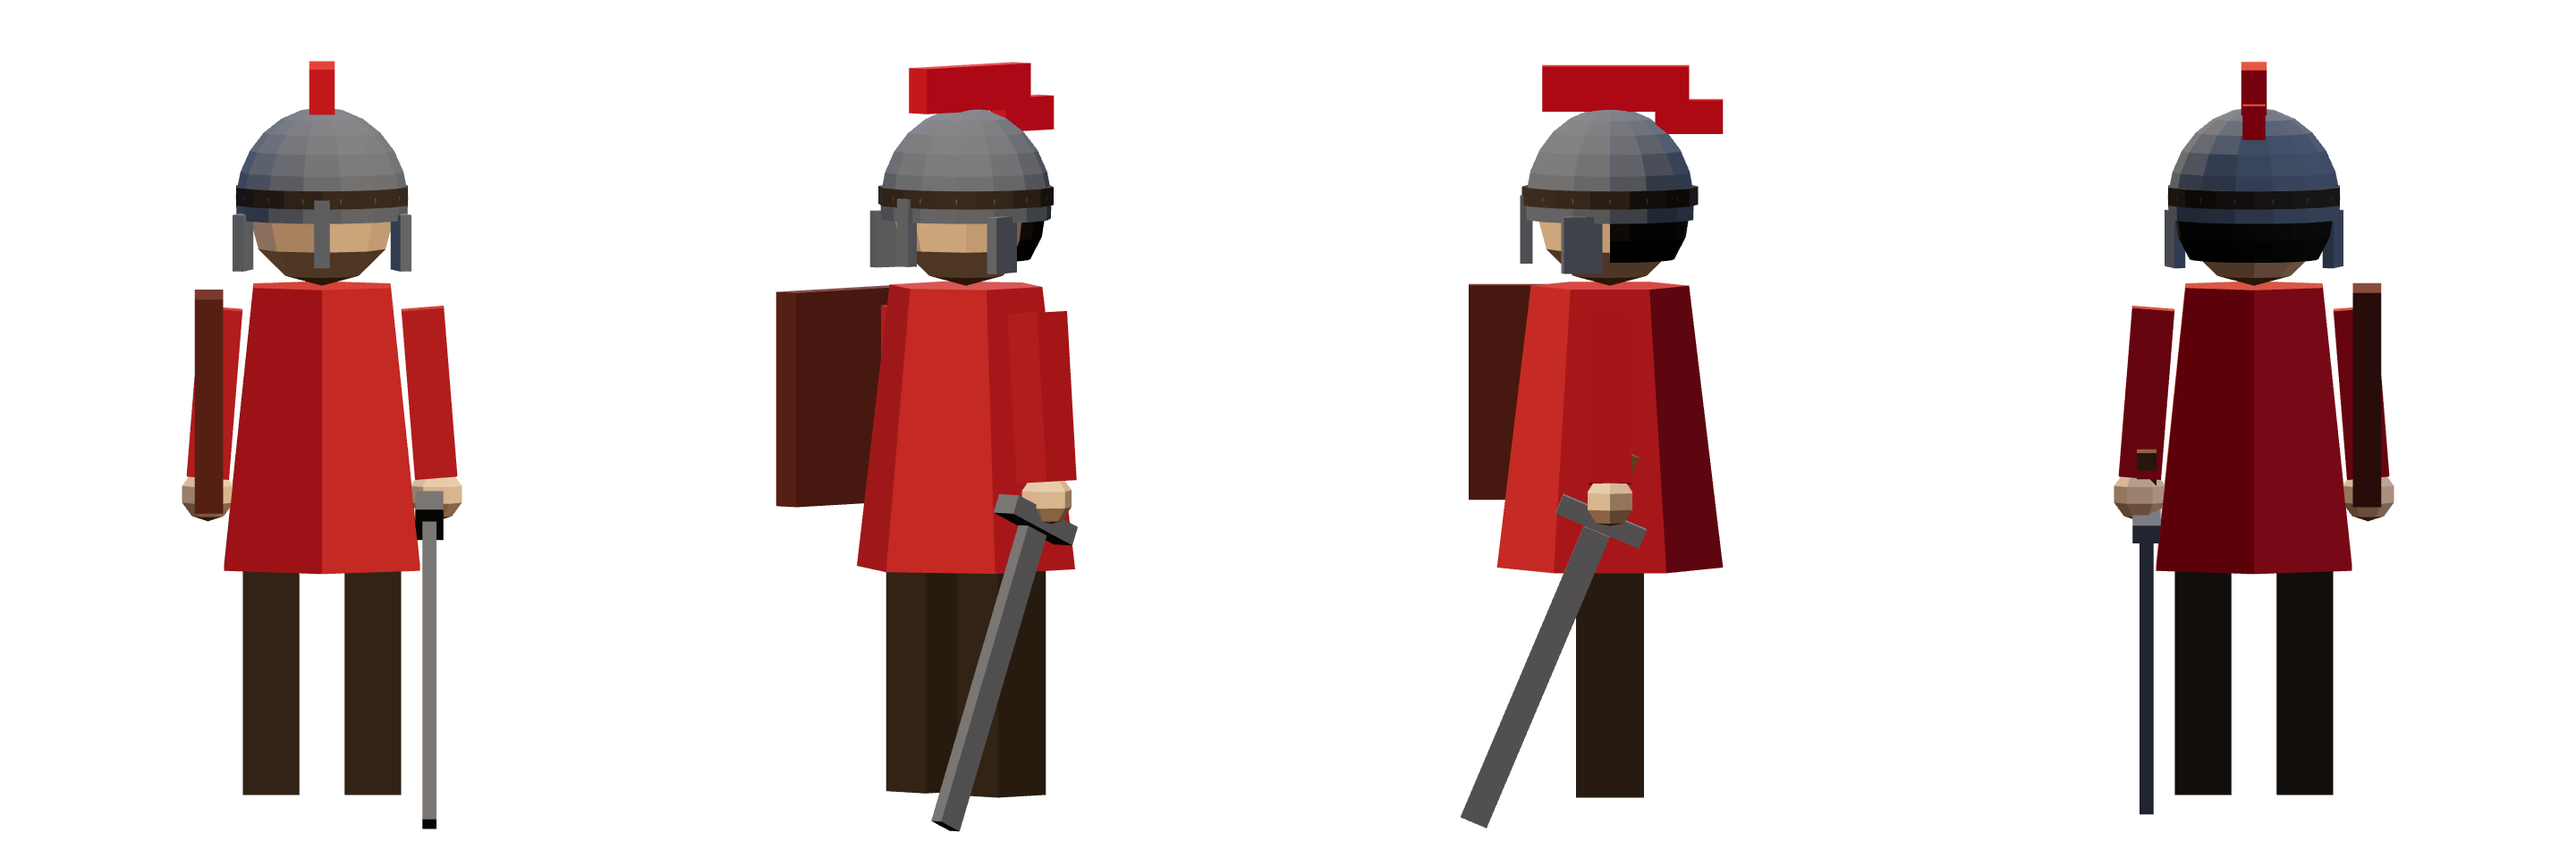
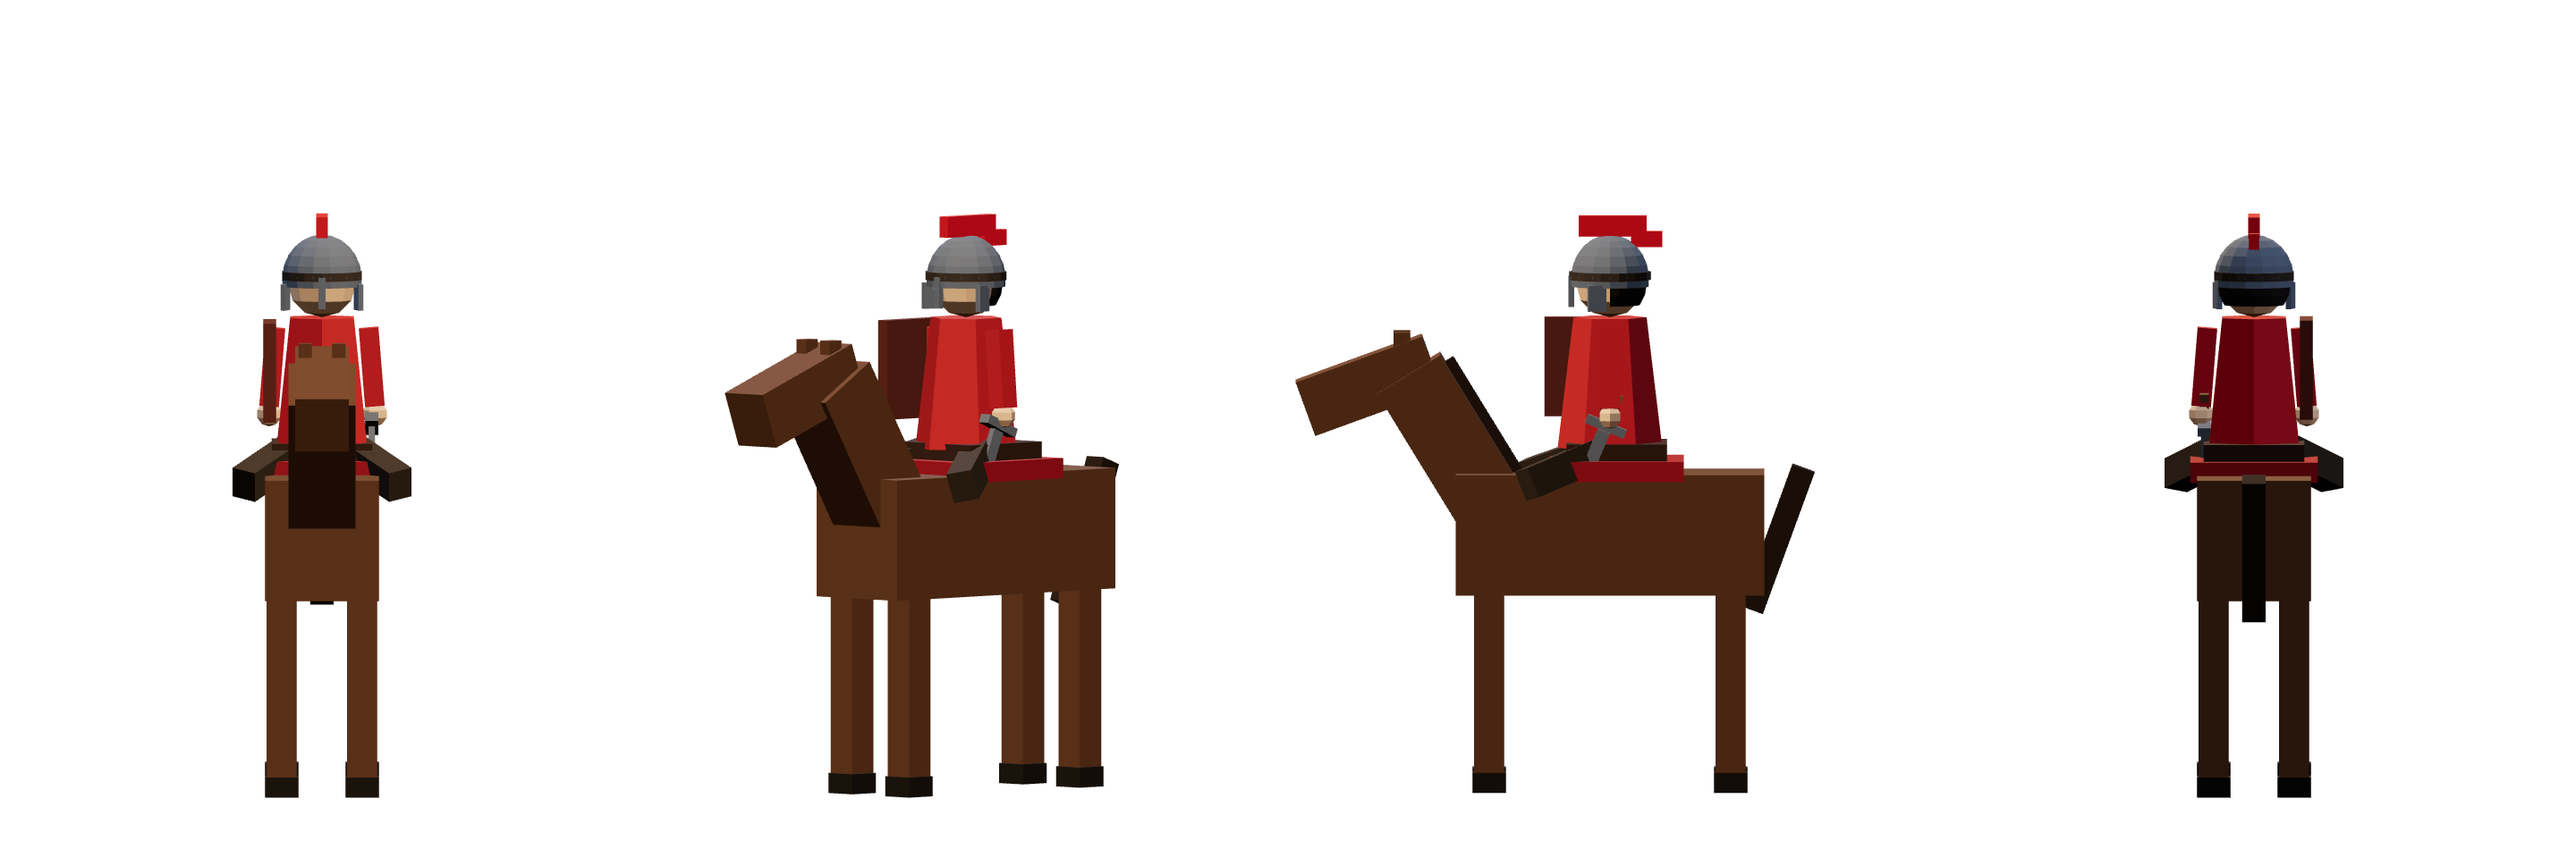
Five waves, raider spearmen, mounted captain
- Two more waves (5 in all) with spearmen from wave 2 and harder stats;
  day/night counter, win check and summary follow the wave count
- Spearman: long iron-tipped spear carried upright, levelled to thrust,
  reach 1.1
- The giant captain is replaced by a normal-size captain on horseback with a
  sword; the horse's legs walk in diagonal pairs
- Character sheet re-rendered with the spearman and mounted captain

diff --git a/index.html b/index.html
@@ -216,7 +216,7 @@ button.danger{border-color:#6b3a33;color:var(--bad)}
   <div class="panel">
     <div class="phase">
       <span class="phIco" id="phIco"></span>
-      <div class="phMain"><div id="phaseText">Day 1 of 3</div><div id="phaseSub">Night in 5:00</div></div>
+      <div class="phMain"><div id="phaseText">Day 1 of 5</div><div id="phaseSub">Night in 5:00</div></div>
       <div class="tick" id="tick" title="Next payout from buildings">
         <svg viewBox="0 0 36 36"><circle cx="18" cy="18" r="15" class="tickBg"/><circle cx="18" cy="18" r="15" class="tickFg" id="tickRing"/></svg>
         <span id="tickN">20</span>
@@ -361,15 +361,19 @@ const PATH_COST = { gold: 1 }, PATH_CHARM = .02, CHARM_R = 8, WALK = { farm: 1, 
 const CATS = { eco: ['house', 'farm', 'lodge', 'quarry'], def: ['tower', 'wall', 'gate'], decor: ['road', 'well', 'torch', 'flowers', 'statue'] };
 const WALLY = { wall: 1, gate: 1, tower: 1, castle: 1 };
 const WAVES = [
-  { sword: 6, archer: 2, hp: 1, dmg: 1 },
-  { sword: 10, archer: 5, hp: 1.2, dmg: 1.15 },
-  { sword: 14, archer: 8, hp: 1.4, dmg: 1.3, captain: 1 },
+  { sword: 6, archer: 2, spear: 0, hp: 1, dmg: 1 },
+  { sword: 8, archer: 4, spear: 3, hp: 1.15, dmg: 1.1 },
+  { sword: 10, archer: 6, spear: 5, hp: 1.3, dmg: 1.2, captain: 1 },
+  { sword: 12, archer: 8, spear: 8, hp: 1.45, dmg: 1.35, captain: 1 },
+  { sword: 16, archer: 10, spear: 10, hp: 1.6, dmg: 1.5, captain: 2 },
 ];
-const DAYLEN = [300, 120, 120];
+const NIGHTS = WAVES.length;
+const DAYLEN = [300, 120, 120, 120, 120];
 const ENEMY = {
   sword:   { hp: 50, speed: 1.5, range: .6, dmg: 6, rate: 1.0 },
   archer:  { hp: 32, speed: 1.3, range: 4.5, dmg: 6, rate: 1.8 },
-  captain: { hp: 260, speed: 1.2, range: .7, dmg: 16, rate: 1.1, big: 1.35 },
+  spear:   { hp: 60, speed: 1.4, range: 1.1, dmg: 8, rate: 1.3 },               // longer reach than a sword
+  captain: { hp: 260, speed: 2.0, range: 1.0, dmg: 16, rate: 1.1, mounted: true },   // rides a horse, swings a sword
 };
 
 // ---------- noise ----------
@@ -1720,6 +1724,11 @@ function makeTool(kind) {
     p.add(box(.008, .008, tipZ * 2, M.canvas, 0, tipY, 0));
     return p;
   }
+  if (kind === 'spear') {               // long ash shaft with an iron head at the -y end (forward when the arm is raised)
+    p.add(box(.03, 1.5, .03, M.timber, 0, -.25, 0));
+    const tip = cone(.04, .18, 4, M.iron, 0, -1.08, 0); tip.rotation.x = Math.PI; p.add(tip);
+    return p;
+  }
   if (kind === 'sword') { p.add(box(.035, .12, .035, M.timber, 0, .03, 0)); p.add(box(.05, .035, .16, M.iron, 0, -.04, 0)); p.add(box(.025, .56, .05, M.iron, 0, -.34, 0)); p.rotation.x = -.4; return p; }
   p.add(box(.035, .64, .035, M.timber, 0, -.22, 0));
   if (kind === 'axe') p.add(box(.03, .16, .2, M.iron, 0, -.48, -.1));     // blade on the side that leads the swing
@@ -2138,12 +2147,34 @@ function updateTrees(now) {
 }
 
 // ---------- enemies + combat ----------
-const raiderRed = mat('#a32a22'), enemyTunic = { sword: raiderRed, archer: raiderRed, captain: raiderRed };   // every raider wears the same red
+const raiderRed = mat('#a32a22'), enemyTunic = { sword: raiderRed, archer: raiderRed, spear: raiderRed, captain: raiderRed };   // every raider wears the same red
 const shieldM = mat('#5a2a1e');
+// the raider captain rides: a horse under the rider, who sits astride with legs to either side
+const horseM = mat('#5a3a22'), maneM = mat('#2a1d14'), saddleM = mat('#3a2418'), blanketM = mat('#8a221c'), hoofM = mat('#1f1a16');
+const SADDLE = .72;   // lifts the rider's body so the hips sit on the saddle
+function mountHorse(p) {
+  const h = new THREE.Group(); p.g.add(h);
+  h.add(box(.34, .36, .92, horseM, 0, .78, 0));                                   // barrel
+  const neck = box(.2, .46, .22, horseM, 0, 1.06, .48); neck.rotation.x = .55; h.add(neck);
+  const head = box(.16, .17, .4, horseM, 0, 1.22, .72); head.rotation.x = .35; h.add(head);
+  const mane = box(.05, .42, .1, maneM, 0, 1.1, .4); mane.rotation.x = .55; h.add(mane);
+  for (const sx of [-1, 1]) h.add(box(.04, .08, .05, horseM, sx * .05, 1.34, .62));  // ears
+  const tail = box(.07, .45, .07, maneM, 0, .76, -.5); tail.rotation.x = -.35; h.add(tail);
+  h.add(box(.38, .06, .4, blanketM, 0, .97, -.02)); h.add(box(.3, .08, .3, saddleM, 0, 1.01, -.02));
+  p.horseLegs = [[-1, 1], [1, 1], [-1, -1], [1, -1]].map(([sx, sz]) => {
+    const pv = new THREE.Group(); pv.position.set(sx * .12, .62, sz * .36); h.add(pv);
+    const l = box(.09, .58, .09, horseM, 0, -.29, 0); pv.add(l); pv.add(box(.1, .06, .1, hoofM, 0, -.58, 0));
+    return pv;
+  });
+  p.body.position.y = SADDLE;
+  for (const [n, sx] of [[0, -1], [1, 1]]) { p.legs[n].rotation.x = -1.2; p.legs[n].rotation.z = sx * .55; }
+  p.horse = h;
+}
 function spawnEnemy(kind, sp, wave) {
   const E = ENEMY[kind], w = WAVES[wave - 1];
-  const p = makePerson({ tunic: enemyTunic[kind], helm: kind === 'archer' ? 'hood' : kind === 'captain' ? 'captain' : 'raider', tool: kind === 'archer' ? 'bow' : 'sword', scale: E.big || 1 });
+  const p = makePerson({ tunic: enemyTunic[kind], helm: kind === 'archer' ? 'hood' : kind === 'captain' ? 'captain' : 'raider', tool: kind === 'archer' ? 'bow' : kind === 'spear' ? 'spear' : 'sword' });
   if (kind !== 'archer') p.body.add(box(.05, .38, .3, shieldM, -.2, .7, .1));
+  if (E.mounted) mountHorse(p);
   const e = Object.assign(p, { kind, x: clamp(sp.x + (Math.random() - .5) * 2, 1, SIZE - 1), z: clamp(sp.z + (Math.random() - .5) * 2, 1, SIZE - 1),
     hp: E.hp * w.hp, max: E.hp * w.hp, speed: E.speed * (.9 + Math.random() * .2), range: E.range, dmg: E.dmg * w.dmg, rate: E.rate,
     cool: Math.random(), target: null, retarget: 0, dead: false, deadT: 0, bar: makeBar(kind === 'captain' ? 1.2 : .8) });
@@ -2216,12 +2247,14 @@ function updateEnemies(dt) {
     e.attackT = Math.max(0, (e.attackT || 0) - dt);
     e.phase += dt * (e.walking ? 9 : 0);
     const sw = e.walking ? Math.sin(e.phase) * .6 : 0;
-    e.legs[0].rotation.x = sw; e.legs[1].rotation.x = -sw;
+    if (e.horse) e.horseLegs.forEach((l, i) => { l.rotation.x = (i === 0 || i === 3 ? 1 : -1) * sw * .8; });   // diagonal pairs move together
+    else { e.legs[0].rotation.x = sw; e.legs[1].rotation.x = -sw; }
     if (e.kind === 'archer') { e.arms[0].rotation.x = e.attackT > 0 ? -1.5 : -.35 - sw * .3; e.arms[1].rotation.x = e.attackT > 0 ? -1.35 : -sw * .6; }
+    else if (e.kind === 'spear') { e.arms[0].rotation.x = -.55 - sw * .2; e.arms[1].rotation.x = e.attackT > 0 ? -1.55 : -.5 + sw * .2; e.pivot.rotation.x = e.attackT > 0 ? 0 : -2.6; }   // carried upright, levelled to thrust
     else { e.arms[0].rotation.x = -.55 - sw * .2; e.arms[1].rotation.x = e.attackT > 0 ? -.6 - e.attackT * 5.7 : -.45 + sw * .3; }
     const y = hAt(e.x, e.z);
     e.g.position.set(e.x, y < 0 ? y * .4 - .2 : y, e.z);
-    e.bar.grp.visible = e.hp < e.max; e.bar.set(e.hp / e.max); e.bar.grp.position.set(e.x, e.g.position.y + 1.6 * UNIT_K * (ENEMY[e.kind].big || 1), e.z);
+    e.bar.grp.visible = e.hp < e.max; e.bar.set(e.hp / e.max); e.bar.grp.position.set(e.x, e.g.position.y + 1.6 * UNIT_K + (e.horse ? SADDLE : 0), e.z);
   }
 }
 // ---------- night watch: villagers walk to the castle and towers and shoot from the top ----------
@@ -2346,8 +2379,8 @@ function startNight() {
   PH.kind = 'night'; spawnQueue = [];
   const pts = [edgePoint(), edgePoint()];
   for (let n = 0; n < w.sword; n++) spawnQueue.push(['sword', pts[n % 2]]);
-  for (let n = 0; n < w.archer; n++) spawnQueue.splice(Math.floor(Math.random() * (spawnQueue.length + 1)), 0, ['archer', pts[n % 2]]);
-  if (w.captain) spawnQueue.push(['captain', pts[0]]);
+  for (const k of ['archer', 'spear']) for (let n = 0; n < (w[k] || 0); n++) spawnQueue.splice(Math.floor(Math.random() * (spawnQueue.length + 1)), 0, [k, pts[n % 2]]);
+  for (let n = 0; n < (w.captain || 0); n++) spawnQueue.push(['captain', pts[n % 2]]);
   spawnT = 1;
   const ps = assignPosts();
   banner(`Night ${PH.wave}`, `${spawnQueue.length} raiders`, true); setMusic('night');
@@ -2366,8 +2399,8 @@ function endGame(won) {
   const el = (performance.now() - stats.t0) / 1000;
   $('#sumTitle').textContent = won ? 'The town holds' : 'The castle has fallen';
   $('#sumTitle').className = won ? '' : 'lost';
-  $('#sumText').textContent = won ? 'All three waves held.' : `Fell on night ${PH.wave}.`;
-  const rows = [['Waves defended', `${won ? 3 : PH.wave - 1} of 3`], ['Raiders slain', stats.slain], ['Buildings built', stats.built], ['Upgrades', stats.upgrades],
+  $('#sumText').textContent = won ? `All ${NIGHTS} waves held.` : `Fell on night ${PH.wave}.`;
+  const rows = [['Waves defended', `${won ? NIGHTS : PH.wave - 1} of ${NIGHTS}`], ['Raiders slain', stats.slain], ['Buildings built', stats.built], ['Upgrades', stats.upgrades],
     ['Buildings lost', stats.lost], ['Buildings standing', buildings.length], ['Gold earned', stats.gold], ['Wood gathered', stats.wood],
     ['Stone quarried', stats.stone], ['Food harvested', stats.food], ['Time played', fmt(el)]];
   $('#sumStats').innerHTML = rows.map(([a, b]) => `<dt>${a}</dt><dd>${b}</dd>`).join('');
@@ -2378,7 +2411,7 @@ function updatePhase(dt) {
   if (PH.kind === 'day') { PH.t -= dt; if (PH.t <= 0) startNight(); }
   else {
     if (spawnQueue.length && (spawnT -= dt) <= 0) { const [k, p] = spawnQueue.shift(); spawnEnemy(k, p, PH.wave); spawnT = 1.1; }
-    if (!spawnQueue.length && !enemies.some(e => !e.dead)) { if (PH.wave >= 3) endGame(true); else startDay(); }
+    if (!spawnQueue.length && !enemies.some(e => !e.dead)) { if (PH.wave >= NIGHTS) endGame(true); else startDay(); }
   }
   if ((econT -= dt) <= 0) { econT = TICK; econTick(); }
 }
@@ -2440,8 +2473,8 @@ const PH_ICON = {
 let phIcoKind = '';
 function updateHud() {
   const pt = $('#phaseText'), sub = $('#phaseSub');
-  if (PH.kind === 'day') { pt.textContent = `Day ${PH.wave} of 3`; pt.className = ''; sub.textContent = `Night in ${fmt(Math.max(0, PH.t))}`; $('#nightBtn').hidden = gameOver; }
-  else { const left = spawnQueue.length + enemies.filter(e => !e.dead).length; pt.textContent = `Night ${PH.wave} of 3`; pt.className = 'night'; sub.textContent = `${left} raider${left === 1 ? '' : 's'} left`; $('#nightBtn').hidden = true; }
+  if (PH.kind === 'day') { pt.textContent = `Day ${PH.wave} of ${NIGHTS}`; pt.className = ''; sub.textContent = `Night in ${fmt(Math.max(0, PH.t))}`; $('#nightBtn').hidden = gameOver; }
+  else { const left = spawnQueue.length + enemies.filter(e => !e.dead).length; pt.textContent = `Night ${PH.wave} of ${NIGHTS}`; pt.className = 'night'; sub.textContent = `${left} raider${left === 1 ? '' : 's'} left`; $('#nightBtn').hidden = true; }
   const kind = PH.kind === 'day' ? 'sun' : 'moon'; if (phIcoKind !== kind) { phIcoKind = kind; $('#phIco').innerHTML = PH_ICON[kind]; }
   $('#tickRing').style.strokeDashoffset = (94.25 * (1 - econT / TICK)).toFixed(1); $('#tickN').textContent = Math.ceil(econT);
   const pop = popStats(), hungry = villagers.filter(v => v.hungry).length; $('#cPop b').textContent = pop.total; $('#cPop .badge').textContent = pop.idle;
@@ -2708,7 +2741,7 @@ function startGame() {
   if (ev) { const B = place('castle', ev.ci, ev.cj, { instant: true, free: true, quiet: true }); const c = center(B); target.set(c.x, 2, c.z); }
   updateCam();
   log('Drag · twist · pinch');
-  log('Survive <b>3 nights</b>');
+  log(`Survive <b>${NIGHTS} nights</b>`);
   log('<b>Day 1</b>', 'good');
   banner('Day 1', 'Build before dark');
   cat = 'eco'; renderTools(); setTool('house');

diff --git a/CLAUDE.md b/CLAUDE.md
@@ -35,9 +35,8 @@ The whole game is currently one self-contained file: `index.html` (~165 KB, thre
 
 ## Gameplay summary
 - 28×28 grid of 2 m cells. Start: castle prebuilt in the middle, 3 villagers, gold 40, wood 45, stone 0, food 20.
-- **Day/night**: 3 waves. Day 1 lasts 300 s, days 2–3 last 120 s (`DAYLEN=[300,120,120]`). Night ends when all enemies are dead. Summary screen at the end.
-- **Repairs**: at dawn every damaged building gets a free `repair` site (`startRepairs`, time = build time × damage × `REPAIR_K` 1.2). A building's own workers repair it first (pausing their gathering; a farm whose farmers are all repairing pays no food), then idle villagers; HP climbs with progress.
-- **Waves** (`WAVES`): 1 = 6 swords + 2 archers; 2 = 10 swords + 5 archers, hp ×1.2; 3 = 14 swords + 8 archers + captain, hp ×1.4. Enemy archer range 4.5.
+- **Day/night**: 5 waves (`NIGHTS = WAVES.length`). Day 1 lasts 300 s, days 2–5 last 120 s (`DAYLEN`). Night ends when all enemies are dead. Summary screen at the end.
+- **Waves** (`WAVES`): 1 = 6 swords + 2 archers; 2 = 8 swords + 4 archers + 3 spears (hp ×1.15); 3 = 10/6/5 + captain (hp ×1.3); 4 = 12/8/8 + captain (hp ×1.45); 5 = 16/10/10 + 2 captains (hp ×1.6). Enemy archer range 4.5; spearmen reach 1.1 and thrust; the captain rides a horse (`mountHorse`, normal size, speed 2.0, sword).
 - **Economy**: payouts every `TICK=20` s (ring in top panel). Each villager eats 1 food every `MEAL=20` s of daylight; hungry villagers go home and sleep.
 - **Villagers**: live in houses/castle, take jobs, commute, walk to construction sites and build them before they work (`assignBuilders` every 0.5 s). At night they man the castle (priority) and towers; the rest hide in the castle.
 - **Decor charm** boosts house gold within `CHARM_R=8`. Paths add `PATH_CHARM=.02` each (path bonus capped at +20%). Paths make everyone (including raiders) move ×1.6.

diff --git a/design/characters/README.md b/design/characters/README.md
@@ -3,7 +3,7 @@
 Rendered straight from the game's models (`makePerson`, `dress`, `makeTool` in `index.html`), transparent background.
 
 - `_overview.png`: every character, front and three-quarter view, labelled.
-- Every image uses the same frame, so sizes compare directly (units are drawn at 78% since the last update; the captain is 1.35x a raider).
+- Every image uses the same frame, so sizes compare directly (units are drawn at 78%; the mounted captain uses a 1.6x frame to fit the horse).
 - One strip per character, four views left to right: front, three-quarter, side, back (720 x 960 px each).
 
 Colour code: plain villagers brown, workers yellows, soldiers blue, raiders red.
@@ -18,6 +18,7 @@ Colour code: plain villagers brown, workers yellows, soldiers blue, raiders red.
 | `guard_archer.png` | Villager archer on towers and the castle: blue shirt, steel round helmet with a blue band and nose guard, bow |
 | `raider_swordsman.png` | Raider swordsman: red shirt, iron helmet with nose guard, sword, shield |
 | `raider_archer.png` | Raider archer: red shirt, dark hood, bow |
-| `raider_captain.png` | Raider captain (wave 3): like the swordsman with a red crest, 1.35x size |
+| `raider_spearman.png` | Raider spearman (from wave 2): helmet, long spear carried upright, shield |
+| `raider_captain.png` | Raider captain (waves 3–5): red-crested helmet and sword, riding a brown horse (shown in a 1.6x larger frame) |
 
 These are images only; editing them does not change the game. Send an edited PNG and the changes can be built into the models.
